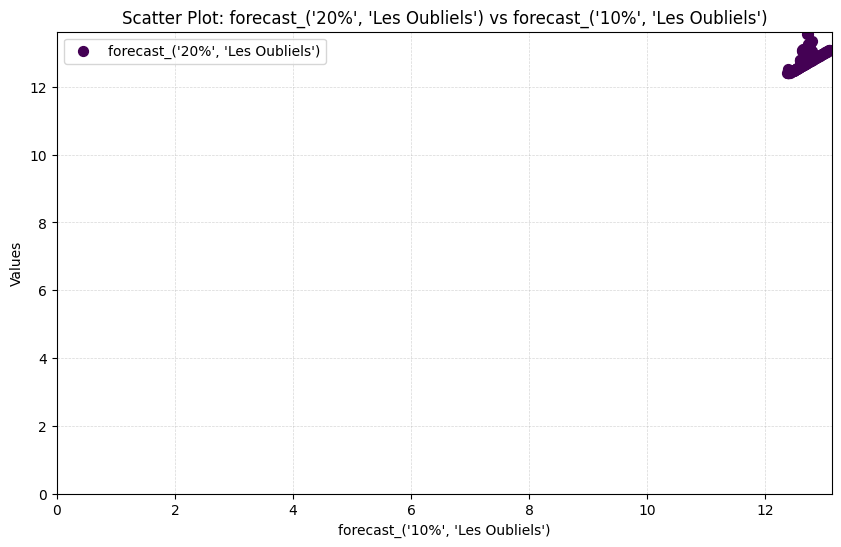
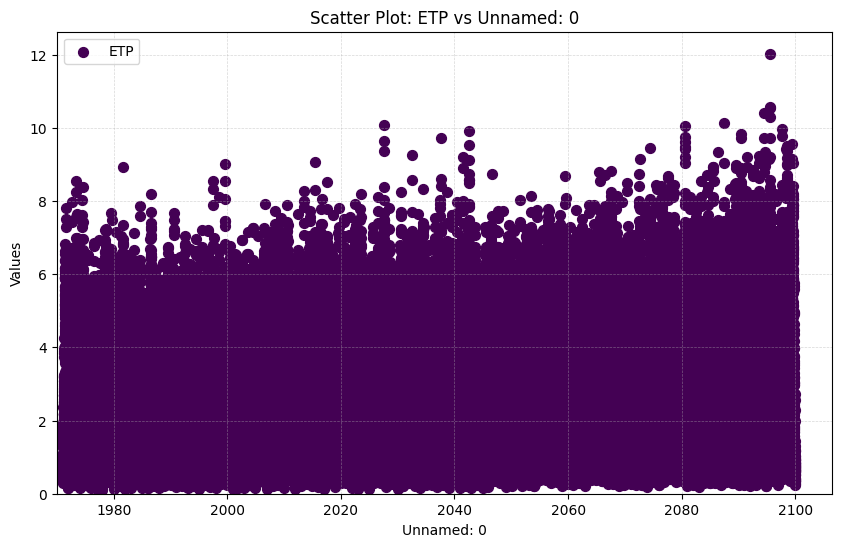
ajout voulez vous continuer et affichage 5 premières lignes

diff --git a/main3.py b/main3.py
@@ -56,6 +56,15 @@ else:
     
 
 # CSV case
+# prévisualisation
+print("\nAperçu des 5 premières lignes du fichier brut :")
+with open(path, 'r', encoding='utf-8-sig', errors='replace') as f:
+    for i in range(5):
+        line = f.readline()
+        clean_line = line.replace(";;", ";").strip(";")
+        print(f"Ligne {i} | {clean_line[:100]}...")
+print("____________________")
+
 # On demande à l'utilisateur combien de lignes de métadonnées il souhaite ignorer
 skip_n = int(input("Combien de lignes de métadonnées (en-têtes sans compter le nom des colonnes) y a t'il? "))
 df = pd.read_csv(path, sep=";", skiprows=skip_n)
@@ -70,54 +79,61 @@ for col in df.select_dtypes(include="object"):
 
 print(df.info()) # Afficher à l'utilisateur les noms des colonnes que comporte son fichier
 
-
+while True: 
 # Demande des indicateurs
-while True:
-    print("\nIndicateurs disponibles :")
-    for name, num in dict_indicateurs.items():
+    while True:
+        print("\nIndicateurs disponibles :")
+        for name, num in dict_indicateurs.items():
+            print(f"[{num}] {name}")
+        
+        indicator_choice = int(input("Entrez le numéro de l'indicateur à calculer (0 pour terminer) : "))
+        if indicator_choice == 0:
+            break  # sortir de la boucle
+
+        if indicator_choice not in menu_indicateurs:
+            print("Choix invalide, réessayez.")
+            continue
+
+        # Appel de la fonction choisie
+        df = menu_indicateurs[indicator_choice](df)
+        
+
+    # Demande des statistiques
+    while True:
+        print("\nCalculs statistiques disponibles :")
+        for name, num in dict_stats.items():
+            print(f"[{num}] {name}")
+        
+        stat_choice = int(input("Entrez le numéro de la stat à appliquer (0 pour terminer) : "))
+        if stat_choice == 0:
+            break  # sortir de la boucle
+
+        if stat_choice not in menu_stats:
+            print("Choix invalide, réessayez.")
+            continue
+
+        # Appel de la fonction choisie
+        df = menu_stats[stat_choice](df)
+
+    # Demande de la visualisation
+    print("\nVisualisations disponibles :")
+    for name, num in dict_visualization.items():
         print(f"[{num}] {name}")
-    
-    indicator_choice = int(input("Entrez le numéro de l'indicateur à calculer (0 pour terminer) : "))
-    if indicator_choice == 0:
-        break  # sortir de la boucle
+    visualization = int(input("Enter the index of the visualization you want: "))
 
-    if indicator_choice not in menu_indicateurs:
-        print("Choix invalide, réessayez.")
-        continue
+    os.makedirs("output", exist_ok=True)
 
-    # Appel de la fonction choisie
-    df = menu_indicateurs[indicator_choice](df)
-    
+    fig = menu[visualization](df) 
+    plt.savefig(f"output/{menu[visualization].__name__}.png", bbox_inches="tight")
+    print("Affichage de la figure, fermez la fenêtre pour continuer le script.")
+    plt.show()
+    plt.close(fig)
 
-# Demande des statistiques
-while True:
-    print("\nCalculs statistiques disponibles :")
-    for name, num in dict_stats.items():
-        print(f"[{num}] {name}")
-    
-    stat_choice = int(input("Entrez le numéro de la stat à appliquer (0 pour terminer) : "))
-    if stat_choice == 0:
-        break  # sortir de la boucle
+    print(f"{menu[visualization].__name__}.png saved in output/")
 
-    if stat_choice not in menu_stats:
-        print("Choix invalide, réessayez.")
-        continue
+    #choix de continuer
+    continuer = input("\nVoulez-vous effectuer une autre analyse/visualisation sur ce fichier ? (o/n) : ").lower()
+    if continuer != 'o':
+        print("Fin du programme. Au revoir !")
+        break
 
-    # Appel de la fonction choisie
-    df = menu_stats[stat_choice](df)
-
-# Demande de la visualisation
-print("\nVisualisations disponibles :")
-for name, num in dict_visualization.items():
-    print(f"[{num}] {name}")
-visualization = int(input("Enter the index of the visualization you want: "))
-
-os.makedirs("output", exist_ok=True)
-
-fig = menu[visualization](df) 
-plt.savefig(f"output/{menu[visualization].__name__}.png", bbox_inches="tight")
-print("Affichage de la figure, fermez la fenêtre pour continuer le script.")
-plt.show()
-plt.close(fig)
-
-print(f"{menu[visualization].__name__}.png saved in output/")

diff --git a/visualization.py b/visualization.py
@@ -131,7 +131,7 @@ def line_chart(df):
 
     for i, col in enumerate(y_cols):
         y = df[col].astype(float)
-        ax.plot(df[x_col], y, marker='o', label=col, color=colors[i])
+        ax.plot(df[x_col], y, marker='o', markersize=2, label=col, color=colors[i])
 
     ax.set_title(f"Line Chart: {', '.join(y_cols)} vs {x_col}")
     ax.set_xlabel(x_col)
